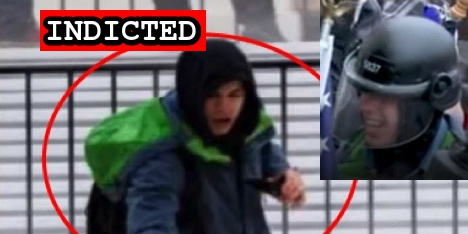
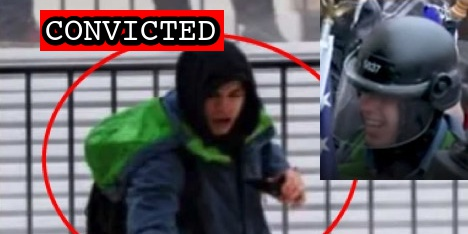
Latest import

Changed region(s): [[0.0897, 0.0299, 0.4786, 0.2393]]

diff --git a/docs/_suspects/nicholas-brockhoff.md b/docs/_suspects/nicholas-brockhoff.md
@@ -4,11 +4,11 @@ lastName: Brockhoff
 hashtag: GreenHornHoodlum
 aka:
 residence: Kentucky
-status: Indicted
+status: Convicted
 date: 2021-05-24
 charged: 2021-05-24
 indicted: 2021-08-18
-convicted:
+convicted: 2022-10-27
 acquitted:
 sentenced:
 dismissed:
@@ -40,9 +40,16 @@ caseName: USA v. BROCKHOFF
 judge: Colleen Kollar-Kotelly
 videos:
 charges:
+  - code: 18 USC § 111(a)(1) and (b)
+    title: Assaulting, resisting, or impeding certain officers or employees (using a deadly or dangerous weapon)
+    url: https://www.law.cornell.edu/uscode/text/18/111
+    felony: true
 sentence:
 ---
+
 - [News Report](https://www.whas11.com/article/news/crime/kentucky-man-charges-jan-6-capitol-riot-nicholas-james-brockhoff-insurrection/417-242a7574-396c-492c-9479-35057a5994c2)
 - [Statement of Facts](https://www.justice.gov/usao-dc/case-multi-defendant/file/1398871/download)
-- [Indictment](https://www.justice.gov/usao-dc/case-multi-defendant/file/1450531/download)
+- [Indictment](https://www.justice.gov/usao-dc/case-multi-defendant/file/1547606/download)
 - [Government Opposition to Release](https://extremism.gwu.edu/sites/g/files/zaxdzs2191/f/Nicholas%20Brockhoff%20Government%20Opposition%20to%20Motion%20for%20Pretrial%20Release.pdf)
+- [Plea Agreement](https://www.justice.gov/usao-dc/case-multi-defendant/file/1547596/download)
+- [Statement of Offense](https://www.justice.gov/usao-dc/case-multi-defendant/file/1547601/download)

diff --git a/docs/_suspects/deborah-kuecken.md b/docs/_suspects/deborah-kuecken.md
@@ -1,0 +1,47 @@
+---
+name: Deborah Kuecken
+lastName: Kuecken
+hashtag:
+aka:
+residence:
+status: Charged
+date: 2022-10-21
+charged: 2022-10-21
+indicted:
+convicted:
+acquitted:
+sentenced:
+dismissed:
+deceased:
+plea_hearing:
+trial_date:
+trial_type:
+sentencing:
+status_conference:
+age:
+occupation:
+affiliations:
+jurisdiction: Federal
+image: /images/preview/deborah-kuecken.jpg
+suspect: deborah-kuecken.jpg
+booking:
+courtroom:
+courthouse:
+raid:
+perpwalk:
+quote:
+title: Deborah Kuecken charged on October 21st, 2022
+description: Click for latest case details. Suspects innocent until proven guilty.
+author: seditiontrack
+layout: suspect
+published: false
+caseNumber: 
+caseName:
+judge:
+videos:
+charges:
+sentence:
+---
+- [News Report]()
+- [Complaint](https://www.justice.gov/usao-dc/case-multi-defendant/file/1547566/download)
+- [Statement of Facts](https://www.justice.gov/usao-dc/case-multi-defendant/file/1547571/download)

diff --git a/docs/_suspects/gary-smith.md b/docs/_suspects/gary-smith.md
@@ -1,0 +1,47 @@
+---
+name: Gary Smith
+lastName: Smith
+hashtag:
+aka:
+residence:
+status: Charged
+date: 2022-10-21
+charged: 2022-10-21
+indicted:
+convicted:
+acquitted:
+sentenced:
+dismissed:
+deceased:
+plea_hearing:
+trial_date:
+trial_type:
+sentencing:
+status_conference:
+age:
+occupation:
+affiliations:
+jurisdiction: Federal
+image: /images/preview/gary-smith.jpg
+suspect: gary-smith.jpg
+booking:
+courtroom:
+courthouse:
+raid:
+perpwalk:
+quote:
+title: Gary Smith charged on October 21st, 2022
+description: Click for latest case details. Suspects innocent until proven guilty.
+author: seditiontrack
+layout: suspect
+published: false
+caseNumber: 
+caseName:
+judge:
+videos:
+charges:
+sentence:
+---
+- [News Report]()
+- [Complaint](https://www.justice.gov/usao-dc/case-multi-defendant/file/1547586/download)
+- [Statement of Facts](https://www.justice.gov/usao-dc/case-multi-defendant/file/1547591/download)
